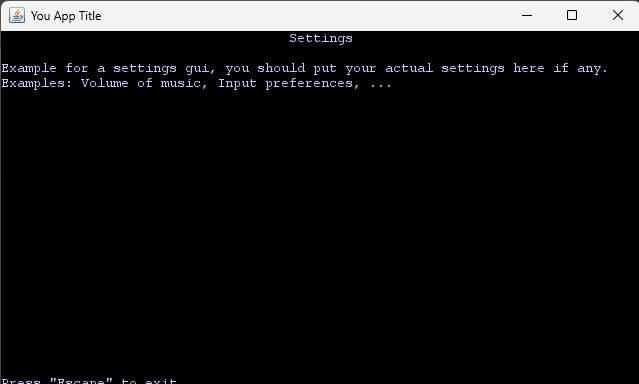
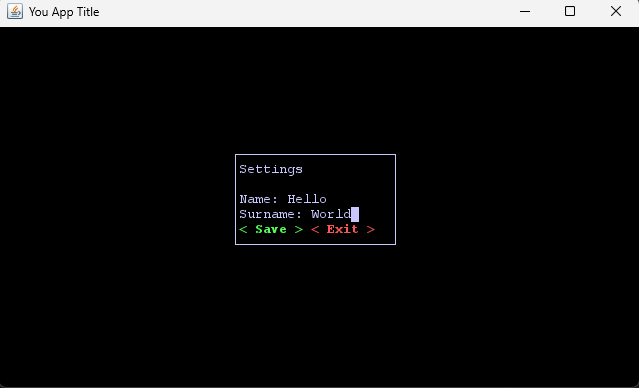
Updated screenshots

diff --git a/src/gui/impl/SettingsGUI.java b/src/gui/impl/SettingsGUI.java
@@ -9,6 +9,7 @@ import engine.UIManager;
 import gui.AbstractTerminalGUI;
 import gui.ITerminalGUI;
 import utils.Constants;
+import utils.Utils;
 
 import java.io.IOException;
 
@@ -102,6 +103,12 @@ public class SettingsGUI extends AbstractTerminalGUI implements ITerminalGUI {
     private void saveAndClose(){
         uiManager.config.name = nameTextBox.getText();
         uiManager.config.surname = surnameTextBox.getText();
+        try{
+            uiManager.configAPI.save();
+        }
+        catch (Exception ignore){
+            Utils.Debug("Failed to save settings to disk");
+        }
         onClose(); // Close
     }
 
